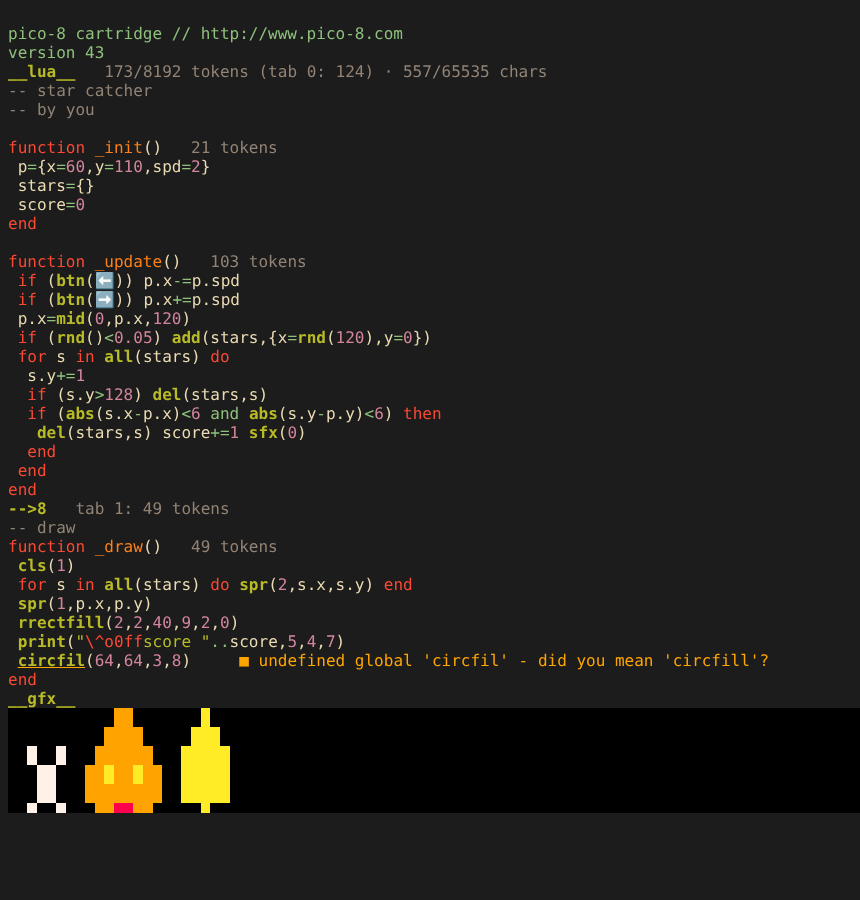
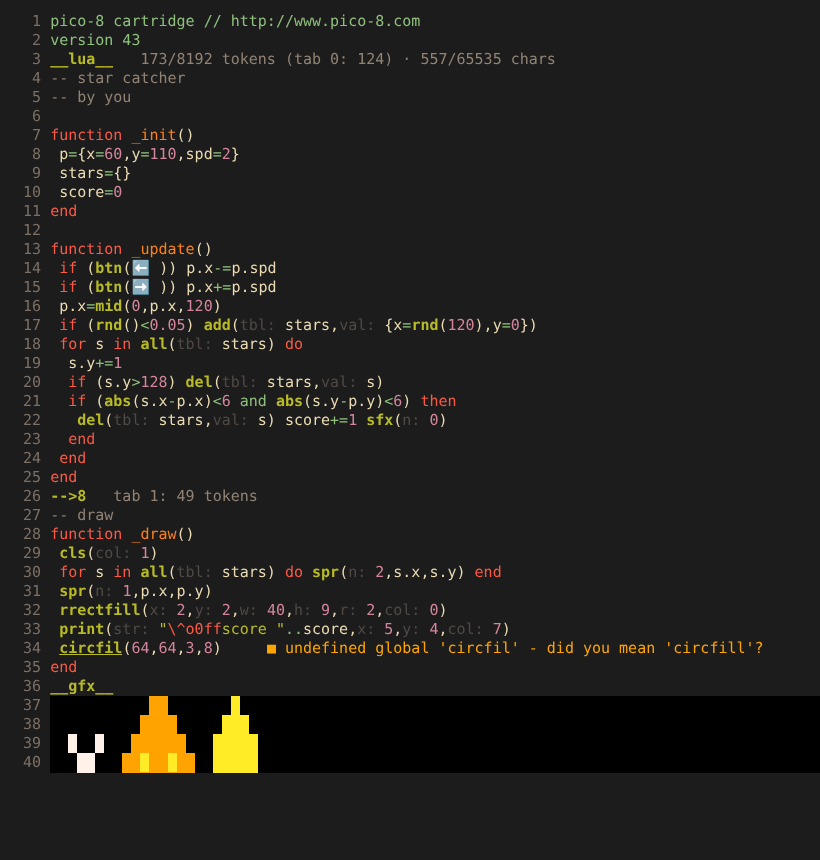
Add parameter name hints for built-in functions
Calls of PICO-8 API functions show their parameter names as LSP inlay
hints: rectfill(x0: 12, y0: 20, x1: 115, y1: 105, col: 0). Hints are
skipped when the argument names itself (p.x for x), for button glyphs and
for functions with only one-letter parameters; overloads are picked by
argument count. Configurable with inlay_hints.enabled /
inlay_hints.user_functions and :Pico8Toggle inlay_hints.

The server now receives didOpen/didChange so Neovim refreshes the hints
after edits.

Claude-Session: https://claude.ai/code/session_01B2W4G9ANP2aCd68hpku7uf

Changed region(s): [[0.0, 0.0, 1.0, 0.907], [0.5793, 0.6651, 0.6098, 0.6953]]

diff --git a/README.md b/README.md
@@ -1,8 +1,8 @@
 # pico8.nvim
 
 [PICO-8](https://www.lexaloffle.com/pico-8.php) **0.2.7** support for Neovim:
-token count, completion, snippets, syntax highlighting and diagnostics.
-Pure Lua, no external programs.
+token count, completion, parameter name hints, snippets, syntax highlighting
+and diagnostics. Pure Lua, no external programs.
 
 ![pico8.nvim](doc/screenshot.png)
 
@@ -24,6 +24,10 @@ Pure Lua, no external programs.
   - button glyphs by name: `left` → `⬅`, `xbutton` → `❎`
   - your own functions and variables, also from `#include`d files, and table fields after `.` / `:`
   - file names after `#include `
+- **Parameter name hints** in calls of built-in functions (inlay hints):
+  `rectfill(x0: 12, y0: 20, x1: 115, y1: 105, col: 0)`. Hints are left out where they add
+  nothing (`spr(n: 1, p.x, p.y)`, `btn(⬅)`, `flr(x)`, `mid(a, b, c)`); optionally also for your
+  own functions. Toggle with `:Pico8Toggle inlay_hints`.
 - **Snippets** for language constructs and single API calls: game loop, cart skeleton, callbacks,
   `if`/`for`/`while` variants, `for o in all(t)`, `btnp`, `menuitem`, `cartdata`, coroutines,
   `fillp`, outlined (`\^o`) and underlined (`\^u`) text (new in 0.2.7), `#include`, `-->8` …
@@ -94,6 +98,11 @@ require("pico8").setup({
   run_args = {},           -- e.g. { "-windowed", "1" }
 
   lsp = { enabled = true }, -- built-in language server "pico8"
+
+  inlay_hints = {
+    enabled = true,           -- parameter names: rectfill(x0: 12, y0: 20, ...)
+    user_functions = false,   -- also in calls of your own functions
+  },
 
   completion = {
     call_snippets = true,  -- insert required arguments as placeholders
@@ -181,7 +190,7 @@ local s = require("pico8").stats() -- { tokens, total_tokens, chars, total_chars
 | `:'<,'>Pico8Tokens` | tokens of the selected lines |
 | `:Pico8Run` | save and run the cart in PICO-8 (for a `.lua` file: the cart that includes it) |
 | `:Pico8Docs [name]` | API documentation in a float; without an argument a cheat sheet. Also `:Pico8Docs stat` / `memory` |
-| `:Pico8Toggle [virtual_text\|function_hints\|diagnostics]` | toggle what is shown |
+| `:Pico8Toggle [virtual_text\|function_hints\|inlay_hints\|diagnostics]` | toggle what is shown |
 
 ## Diagnostics
 
